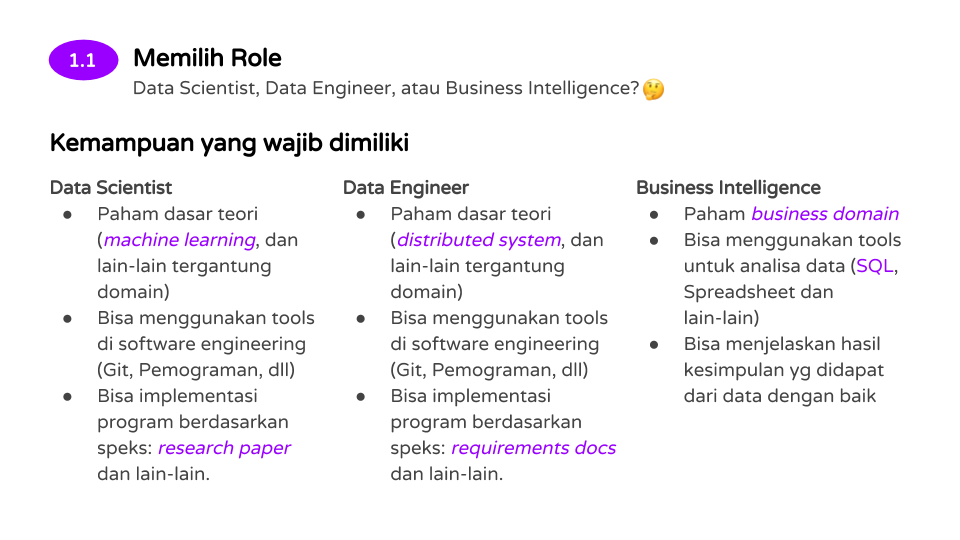
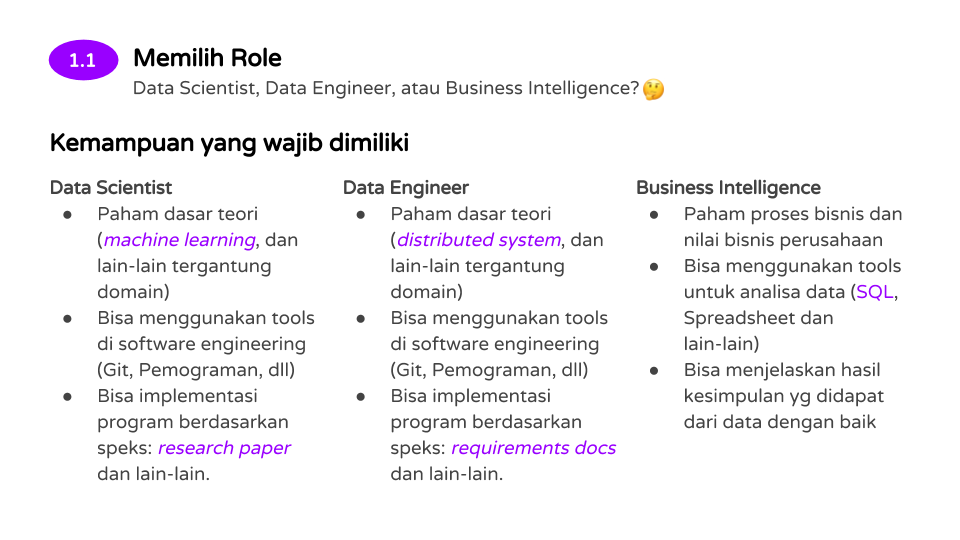
Update

Changed region(s): [[0.6562, 0.3852, 0.9375, 0.8], [0.6562, 0.6815, 0.6875, 0.7111], [0.6562, 0.4741, 0.6875, 0.5037]]

diff --git a/_layouts/panduan.html b/_layouts/panduan.html
@@ -48,7 +48,7 @@
     <script async defer src="https://buttons.github.io/buttons.js"></script>
 </head>
 
-<body class="valera-round">
+<body class="valera-round" style="line-height: 1.5;">
     <div id="fb-root"></div>
     <script>(function (d, s, id) {
             var js, fjs = d.getElementsByTagName(s)[0];

diff --git a/index.md b/index.md
@@ -10,18 +10,24 @@ title: Panduan Memulai Karir di Data Science
 
 Halo 👋
 
-Ini merupakan panduan untuk berkarir di datascience untuk umum.
-Materi ini saya sampaikan pada acara
-"*Data Science for Industry 4.0 Ecosystem*", **Gemini 2018** pada tanggal
-26 Agustus 2018 di **Institut Teknologi Adhi Tama Surabaya**, Indonesia.
+Bagaimana cara memulai karir di data science?
+Pertanyaan ini dibahas dan di diskusikan pada acara
+*Data Science for Industry 4.0 Ecosystem*, Gemini 2018,
+bersama mahasiswa Institut Teknologi Adhi Tama Surabaya,
+Indonesia.
 
 Panduan ini hanya membahas tentang 3 role, yaitu: *Data Scientist*,
 *Data Engineer* dan *Business Intelligence*.
+
 Jika ada pertanyaan, koreksi atau ingin menambahkan panduan untuk
 role lain bisa kontak saya melalui email:
 [bay@machinelearning.id](mailto:bay@machinelearning.id).
 
 Good Luck ya! 🙌
+
+### Pembaruan
+- 2018/08/27 Pembaruan pekerjaan utama dan kemampuan yang harus dimiliki *Business Intelligence*.
+  Credit to Rhesa Austen, BI Kumparan.
 
 [Download Slide](https://www.slideshare.net/bayual/panduan-untuk-memulai-karir-di-data-science)
 
